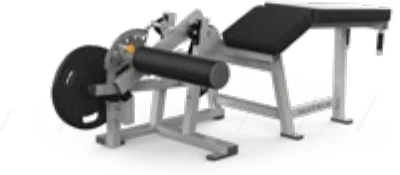
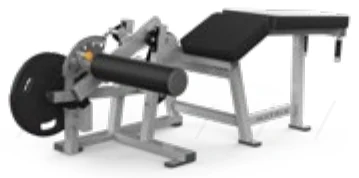
Add files via upload

diff --git a/js/programmes.js b/js/programmes.js
@@ -281,7 +281,7 @@ export const MACHINES_DEFAUT = [
 // motsCles : sert à repérer un appareil déjà créé à la main, pour le mettre à jour au lieu d'en créer un second.
 export const CATALOGUE = [
   { id: "leg-press-45", nom: "Presse à cuisses 45°", modele: "Matrix Magnum MG-PL70",
-    motsCles: ["leg press", "presse", "legpress"],
+    motsCles: ["leg press", "legpress", "presse a cuisses", "presse cuisses", "presse 45"],
     unite: "kg", increment: 2.5, chargeMin: 75, chargeMax: 490, dossier: "leg-press-45", actif: true,
     info: "Le chariot vide pèse déjà 75 kg (charge de départ indiquée par Matrix). Saisissez toujours la charge totale : 75 kg + les disques chargés.",
     consigne: "Dos et bassin collés au dossier. Pieds à plat, largeur du bassin, genoux dans l'axe des pieds. Réglez la butée basse avant de commencer. Déverrouillez le chariot seulement pieds en place, reverrouillez avant de descendre. Ne verrouillez pas les genoux en haut. Chargez et déchargez les disques des deux côtés en même temps." },
@@ -289,7 +289,7 @@ export const CATALOGUE = [
   // Réglages (lbs, pas de 5, 5 à 100) relevés sur la pile de la machine de la salle :
   // la brochure Matrix annonce une pile de 87,1 kg / 192 lbs pour le MG-942, différente de celle de la salle.
   { id: "triceps-pressdown", nom: "Triceps pressdown", modele: "Matrix Magnum MG-942",
-    motsCles: ["triceps", "pressdown", "pushdown", "push down"],
+    motsCles: ["pressdown", "pushdown", "push down", "poulie triceps"],
     unite: "lbs", increment: 5, chargeMin: 5, chargeMax: 100, dossier: "triceps-pressdown", actif: true,
     info: "La pile est graduée en livres (lbs) : placez la goupille sur le chiffre indiqué par l'appli (100 lbs ≈ 45 kg).",
     consigne: "Debout face à la poulie, pieds largeur du bassin, genoux légèrement fléchis, buste un peu penché en avant. Coudes collés au corps : seuls les avant-bras bougent. Écartez la corde en bas du mouvement, remontez lentement sans laisser la pile claquer. Changez la goupille seulement pile au repos." },
@@ -298,7 +298,129 @@ export const CATALOGUE = [
     motsCles: ["leg curl", "legcurl", "ischio", "curl jambe"],
     unite: "kg", increment: 1.25, chargeMin: 10, actif: true, dossier: "leg-curl-couche",
     info: "Machine à disques : le bras vide équivaut déjà à environ 10 kg (21 lb indiqués par Matrix). Saisissez toujours la charge totale : 10 kg + les disques chargés.",
-    consigne: "Allongé sur le ventre, genoux juste au-delà du bord du banc (alignés avec l'axe de rotation), boudin posé au-dessus des talons. Bassin plaqué contre le banc, ne cambrez pas le dos. Montez et descendez lentement, sans à-coup. Chargez et déchargez les disques bras posé en butée basse." }
+    consigne: "Allongé sur le ventre, genoux juste au-delà du bord du banc (alignés avec l'axe de rotation), boudin posé au-dessus des talons. Bassin plaqué contre le banc, ne cambrez pas le dos. Montez et descendez lentement, sans à-coup. Chargez et déchargez les disques bras posé en butée basse." },
+
+  // ---- Ajouts : tous les appareils chargeables des brochures Matrix (résistances de départ : fiches techniques Matrix) ----
+  { id: "vertical-bench-press", nom: "Développé vertical (disques)", modele: "Matrix Magnum MG-PL12",
+    motsCles: ["developpe vertical", "vertical bench", "chest press", "presse pectoraux"],
+    unite: "kg", increment: 2.5, chargeMin: 7.5, dossier: "vertical-bench-press", actif: true,
+    info: "Le bras vide équivaut déjà à 6,8 kg (valeur Matrix). Saisissez toujours la charge totale : 7,5 kg + les disques chargés (additionnez les disques des deux côtés).",
+    consigne: "Réglez le siège pour que les poignées soient à hauteur de poitrine. Dos et tête collés au dossier, pieds au sol. Poussez sans verrouiller les coudes, revenez lentement sans laisser les charges se poser. Chargez les disques des deux côtés." },
+  { id: "supine-bench-press", nom: "Développé couché guidé (disques)", modele: "Matrix Magnum MG-PL13",
+    motsCles: ["supine", "couche guide", "développé couché machine"],
+    unite: "kg", increment: 2.5, chargeMin: 5, dossier: "supine-bench-press", actif: true,
+    info: "Le bras vide équivaut déjà à 4,5 kg (valeur Matrix). Saisissez toujours la charge totale : 5 kg + les disques chargés (additionnez les disques des deux côtés).",
+    consigne: "Allongé, yeux sous les poignées, dos et fessiers en contact avec le banc, pieds au sol. Poussez sans verrouiller les coudes, descendez lentement jusqu'à hauteur de poitrine. Chargez les disques des deux côtés." },
+  { id: "incline-bench-press", nom: "Développé incliné (disques)", modele: "Matrix Magnum MG-PL14",
+    motsCles: ["incline", "incliné", "incline bench"],
+    unite: "kg", increment: 2.5, chargeMin: 5, dossier: "incline-bench-press", actif: true,
+    info: "Le bras vide équivaut déjà à 5,4 kg (valeur Matrix). Saisissez toujours la charge totale : 5 kg + les disques chargés (additionnez les disques des deux côtés).",
+    consigne: "Réglez le siège pour que les poignées soient au niveau du haut de la poitrine. Dos collé au dossier, pieds au sol. Poussez sans verrouiller les coudes, revenez lentement. Chargez les disques des deux côtés." },
+  { id: "vertical-decline-press", nom: "Développé décliné (disques)", modele: "Matrix Magnum MG-PL15",
+    motsCles: ["decline", "décliné"],
+    unite: "kg", increment: 2.5, chargeMin: 7.5, dossier: "vertical-decline-press", actif: true,
+    info: "Le bras vide équivaut déjà à 6,8 kg (valeur Matrix). Saisissez toujours la charge totale : 7,5 kg + les disques chargés (additionnez les disques des deux côtés).",
+    consigne: "Réglez le siège pour que les poignées soient au niveau du bas de la poitrine. Dos collé au dossier, pieds au sol. Poussez vers le bas et l'avant sans verrouiller les coudes, revenez lentement. Chargez les disques des deux côtés." },
+  { id: "shoulder-press-disques", nom: "Développé épaules (disques)", modele: "Matrix Magnum MG-PL23",
+    motsCles: ["developpe epaules", "développé épaules", "shoulder press", "militaire"],
+    unite: "kg", increment: 2.5, chargeMin: 5, dossier: "shoulder-press-disques", actif: true,
+    info: "Le bras vide équivaut déjà à 5,4 kg (valeur Matrix). Saisissez toujours la charge totale : 5 kg + les disques chargés (additionnez les disques des deux côtés).",
+    consigne: "Réglez le siège pour que les poignées partent à hauteur d'épaules. Dos collé au dossier, ne cambrez pas. Poussez sans verrouiller les coudes, redescendez lentement. Chargez les disques des deux côtés." },
+  { id: "lat-pulldown-disques", nom: "Tirage vertical (disques)", modele: "Matrix Magnum MG-PL33",
+    motsCles: ["tirage vertical disques", "lat pulldown disques"],
+    unite: "kg", increment: 2.5, chargeMin: 0, dossier: "lat-pulldown-disques", actif: true,
+    info: "Résistance de départ non communiquée par Matrix : regardez l'étiquette « Starting resistance » sur la machine, puis indiquez-la comme charge minimum. En attendant, saisissez seulement le poids des disques, toujours de la même façon.",
+    consigne: "Réglez le boudin sur les cuisses pour bien les bloquer. Buste droit, légèrement penché en arrière. Tirez les poignées vers le haut de la poitrine en serrant les omoplates, remontez lentement bras presque tendus. Chargez les disques des deux côtés." },
+  { id: "seated-row-disques", nom: "Tirage horizontal assis (disques)", modele: "Matrix Magnum MG-PL34",
+    motsCles: ["tirage horizontal disques", "seated row", "rowing assis"],
+    unite: "kg", increment: 2.5, chargeMin: 10, dossier: "seated-row-disques", actif: true,
+    info: "Le bras vide équivaut déjà à 11,3 kg (valeur Matrix). Saisissez toujours la charge totale : 10 kg + les disques chargés (additionnez les disques des deux côtés).",
+    consigne: "Réglez le siège pour que les poignées soient à hauteur de poitrine, buste contre l'appui. Dos droit, épaules basses. Tirez en serrant les omoplates, coudes près du corps, revenez lentement bras presque tendus. Chargez les disques des deux côtés." },
+  { id: "ab-crunch-bench", nom: "Banc crunch abdos (disques)", modele: "Matrix Magnum MG-PL50",
+    motsCles: ["crunch", "abdo"],
+    unite: "kg", increment: 1.25, chargeMin: 10, dossier: "ab-crunch-bench", actif: true,
+    info: "Le bras vide équivaut déjà à 11,3 kg (valeur Matrix). Saisissez toujours la charge totale : 10 kg + les disques chargés. Charge maximale prévue : 34 kg.",
+    consigne: "Pieds calés sous les rouleaux, mains sur les poignées. Enroulez le buste en rapprochant les côtes du bassin, sans tirer avec les bras ni sur la nuque. Revenez lentement sans reposer la charge." },
+  { id: "smith-magnum", nom: "Smith machine (Magnum)", modele: "Matrix Magnum MG-PL62",
+    motsCles: ["smith"],
+    unite: "kg", increment: 2.5, chargeMin: 10, dossier: "smith-magnum", actif: true,
+    info: "Le bras vide équivaut déjà à 11,3 kg (valeur Matrix). Saisissez toujours la charge totale : 10 kg + les disques chargés (additionnez les disques des deux côtés).",
+    consigne: "Réglez les butées de sécurité juste sous le point le plus bas du mouvement AVANT de commencer. Décrochez la barre par rotation des poignets, raccrochez-la à chaque fin de série. Disques identiques des deux côtés, colliers mis. Ne travaillez jamais sans butées." },
+  { id: "hack-squat", nom: "Hack squat", modele: "Matrix Magnum MG-PL71",
+    motsCles: ["hack"],
+    unite: "kg", increment: 2.5, chargeMin: 47.5, dossier: "hack-squat", actif: true,
+    info: "Le bras vide équivaut déjà à 47,6 kg (valeur Matrix). Saisissez toujours la charge totale : 47,5 kg + les disques chargés.",
+    consigne: "Dos et épaules bien calés contre les appuis, pieds à plat à largeur de bassin, genoux dans l'axe des pieds. Réglez la butée basse, déverrouillez le chariot pieds en place. Descendez contrôlé sans décoller les talons, ne verrouillez pas les genoux en haut. Reverrouillez avant de sortir." },
+  { id: "standing-calf", nom: "Mollets debout (disques)", modele: "Matrix Magnum MG-PL76",
+    motsCles: ["mollet debout", "standing calf", "mollets debout"],
+    unite: "kg", increment: 2.5, chargeMin: 30, dossier: "standing-calf", actif: true,
+    info: "Le bras vide équivaut déjà à 30,4 kg (valeur Matrix). Saisissez toujours la charge totale : 30 kg + les disques chargés.",
+    consigne: "Réglez les épaulières à votre taille. Avant des pieds sur la plateforme, talons dans le vide, genoux tendus mais non verrouillés. Montez sur la pointe des pieds, redescendez lentement en étirant le mollet. Gardez le dos droit." },
+  { id: "seated-calf", nom: "Mollets assis (disques)", modele: "Matrix Magnum MG-PL77",
+    motsCles: ["mollet assis", "seated calf", "mollets assis"],
+    unite: "kg", increment: 2.5, chargeMin: 10, dossier: "seated-calf", actif: true,
+    info: "Le bras vide équivaut déjà à 11,3 kg (valeur Matrix). Saisissez toujours la charge totale : 10 kg + les disques chargés.",
+    consigne: "Réglez les appuis sur le bas des cuisses. Avant des pieds sur la plateforme, talons libres. Débloquez la barre de sécurité, montez sur la pointe des pieds puis redescendez lentement. Rebloquez avant de sortir." },
+  { id: "glute-trainer", nom: "Hip thrust (Glute trainer)", modele: "Matrix Magnum MG-PL78",
+    motsCles: ["glute", "hip thrust", "fessier"],
+    unite: "kg", increment: 2.5, chargeMin: 22.5, dossier: "glute-trainer", actif: true,
+    info: "Le bras vide équivaut déjà à 22,7 kg (valeur Matrix). Saisissez toujours la charge totale : 22,5 kg + les disques chargés.",
+    consigne: "Haut du dos sur l'appui, ceinture du boudin sur les hanches, pieds à plat largeur de bassin. Poussez avec les talons jusqu'à l'alignement épaules-hanches-genoux, sans cambrer le bas du dos. Redescendez lentement." },
+  { id: "squat-lunge", nom: "Squat / fente guidé (disques)", modele: "Matrix Magnum MG-PL79",
+    motsCles: ["squat lunge", "squat / fente", "fente"],
+    unite: "kg", increment: 2.5, chargeMin: 15, dossier: "squat-lunge", actif: true,
+    info: "Le bras vide équivaut déjà à 16,3 kg (valeur Matrix). Saisissez toujours la charge totale : 15 kg + les disques chargés. Charge maximale efficace : 144 kg.",
+    consigne: "Épaules sous les appuis, buste droit, pieds largeur de bassin. Descendez contrôlé, genoux dans l'axe des pieds, talons au sol. Ne verrouillez pas les genoux en haut. Pour la fente, gardez le genou avant au-dessus de la cheville." },
+  { id: "reverse-back-extension", nom: "Extension lombaire inversée (disques)", modele: "Matrix Magnum MG-405",
+    motsCles: ["reverse", "lombaire", "hyperextension"],
+    unite: "kg", increment: 2.5, chargeMin: 7.5, dossier: "reverse-back-extension", actif: true,
+    info: "Le bras vide équivaut déjà à 7 kg (valeur Matrix). Saisissez toujours la charge totale : 7,5 kg + les disques chargés.",
+    consigne: "Buste allongé sur l'appui, hanches au bord, mains sur les poignées. Montez les jambes jusqu'à l'horizontale sans cambrer au-delà, redescendez lentement. Réglez le point de départ selon votre souplesse ; débutez léger." },
+  { id: "lat-pulldown-pile", nom: "Tirage vertical (pile)", modele: "Matrix Magnum MG-921",
+    motsCles: ["tirage vertical", "lat pulldown", "tirage poitrine"],
+    unite: "lbs", increment: 10, chargeMin: 10, dossier: "lat-pulldown-pile", actif: true,
+    info: "Machine à pile : placez la goupille sur la charge indiquée par l'appli. Vérifiez l'unité (lbs ou kg) et le pas inscrits sur la pile, et corrigez-les dans la fiche appareil si besoin.",
+    consigne: "Réglez le boudin pour bloquer les cuisses. Prise un peu plus large que les épaules, buste légèrement en arrière. Tirez la barre devant vers le haut de la poitrine (jamais derrière la nuque), remontez lentement sans laisser la pile claquer." },
+  { id: "low-row-pile", nom: "Tirage horizontal (pile)", modele: "Matrix Magnum MG-926",
+    motsCles: ["tirage horizontal", "low row", "rowing"],
+    unite: "lbs", increment: 10, chargeMin: 10, dossier: "low-row-pile", actif: true,
+    info: "Machine à pile : placez la goupille sur la charge indiquée par l'appli. Vérifiez l'unité (lbs ou kg) et le pas inscrits sur la pile, et corrigez-les dans la fiche appareil si besoin.",
+    consigne: "Pieds calés sur les appuis, genoux légèrement fléchis, dos droit. Tirez la poignée vers le nombril en serrant les omoplates, sans basculer le buste en arrière. Revenez lentement sans arrondir le dos." },
+  { id: "lat-low-row-pile", nom: "Tirage vertical / horizontal (pile)", modele: "Matrix Magnum MG-946",
+    motsCles: ["tirage vertical / horizontal", "lat pulldown / low row"],
+    unite: "lbs", increment: 10, chargeMin: 10, dossier: "lat-low-row-pile", actif: true,
+    info: "Machine à pile : placez la goupille sur la charge indiquée par l'appli. Vérifiez l'unité (lbs ou kg) et le pas inscrits sur la pile, et corrigez-les dans la fiche appareil si besoin.",
+    consigne: "Une seule pile pour deux exercices : faites un test séparé si vous utilisez les deux postes. Tirage vertical : cuisses bloquées, barre devant vers la poitrine. Tirage horizontal : dos droit, poignée vers le nombril. Retour lent sans faire claquer la pile." },
+  { id: "angled-smith", nom: "Smith machine inclinée (Varsity)", modele: "Matrix Varsity VY-M49",
+    motsCles: ["smith incline", "smith inclin", "angled smith"],
+    unite: "kg", increment: 2.5, chargeMin: 10, dossier: "angled-smith", actif: true,
+    info: "Le bras vide équivaut déjà à 11,3 kg (valeur Matrix). Saisissez toujours la charge totale : 10 kg + les disques chargés (additionnez les disques des deux côtés).",
+    consigne: "Réglez les butées de sécurité juste sous le point le plus bas AVANT de commencer. Décrochez et raccrochez la barre par rotation des poignets. Disques identiques des deux côtés, colliers mis. Ne travaillez jamais sans butées." },
+  { id: "smith-g1", nom: "Smith machine (G1)", modele: "Matrix G1-FW161",
+    motsCles: ["smith g1"],
+    unite: "kg", increment: 2.5, chargeMin: 20, dossier: "smith-g1", actif: true,
+    info: "Le bras vide équivaut déjà à 20 kg (valeur Matrix). Saisissez toujours la charge totale : 20 kg + les disques chargés (additionnez les disques des deux côtés).",
+    consigne: "Réglez les butées de sécurité juste sous le point le plus bas AVANT de commencer. Décrochez et raccrochez la barre par rotation des poignets. Disques identiques des deux côtés, colliers mis. Ne travaillez jamais sans butées." },
+  { id: "perfect-squat", nom: "Perfect squat (Varsity)", modele: "Matrix Varsity VY-400",
+    motsCles: ["perfect squat"],
+    unite: "kg", increment: 2.5, chargeMin: 0, dossier: "perfect-squat", actif: true,
+    info: "Résistance de départ non communiquée par Matrix : regardez l'étiquette « Starting resistance » sur la machine, puis indiquez-la comme charge minimum. En attendant, saisissez seulement le poids des disques, toujours de la même façon.",
+    consigne: "Épaules sous les appuis, dos contre le dossier, pieds à plat sur la plateforme, largeur de bassin. Descendez contrôlé, genoux dans l'axe des pieds, talons au sol. Ne verrouillez pas les genoux en haut. Réglez la hauteur de départ avant de charger." },
+  { id: "leg-extension", nom: "Leg extension (Varsity)", modele: "Matrix Varsity VY-401",
+    motsCles: ["leg extension", "extension jambe", "quadriceps"],
+    unite: "kg", increment: 1.25, chargeMin: 0, dossier: "leg-extension", actif: true,
+    info: "Résistance de départ non communiquée par Matrix : regardez l'étiquette « Starting resistance » sur la machine, puis indiquez-la comme charge minimum. En attendant, saisissez seulement le poids des disques, toujours de la même façon.",
+    consigne: "Réglez le dossier pour aligner le genou avec l'axe de rotation, boudin posé sur le bas du tibia. Dos collé au dossier, mains sur les poignées. Tendez les jambes sans verrouiller les genoux, redescendez lentement." },
+  { id: "biceps-curl-pupitre", nom: "Curl biceps au pupitre (Varsity)", modele: "Matrix Varsity VY-431",
+    motsCles: ["biceps", "curl biceps", "pupitre"],
+    unite: "kg", increment: 1.25, chargeMin: 0, dossier: "biceps-curl-pupitre", actif: true,
+    info: "Résistance de départ non communiquée par Matrix : regardez l'étiquette « Starting resistance » sur la machine, puis indiquez-la comme charge minimum. En attendant, saisissez seulement le poids des disques, toujours de la même façon.",
+    consigne: "Réglez le siège pour que le dos des bras repose entièrement sur le pupitre, coudes alignés avec l'axe de rotation. Fléchissez les bras sans décoller les coudes, redescendez lentement sans verrouiller en bas." },
+  { id: "triceps-extension", nom: "Extension triceps (Varsity)", modele: "Matrix Varsity VY-432",
+    motsCles: ["extension triceps", "triceps extension"],
+    unite: "kg", increment: 1.25, chargeMin: 0, dossier: "triceps-extension", actif: true,
+    info: "Résistance de départ non communiquée par Matrix : regardez l'étiquette « Starting resistance » sur la machine, puis indiquez-la comme charge minimum. En attendant, saisissez seulement le poids des disques, toujours de la même façon.",
+    consigne: "Réglez le siège pour aligner les coudes avec l'axe de rotation, bras posés sur l'appui. Tendez les bras sans verrouiller les coudes, revenez lentement. Gardez le dos contre le dossier." }
 ];
 
 export function genererCode(longueur = 6) {

diff --git a/js/prof.js b/js/prof.js
@@ -247,6 +247,64 @@ async function ficheEtudiant(code) {
 }
 
 // ---------------- Appareils ----------------
+// ---------- Catalogue d'appareils ----------
+// Retrouve l'appareil de la salle qui correspond à une fiche du catalogue (même id, ou nom contenant un mot-clé)
+const normTxt = s => String(s).toLowerCase().normalize("NFD").replace(/[\u0300-\u036f]/g, "");
+function correspondance(k, liste, dejaPris = new Set()) {
+  return liste.find(m => m.id === k.id && !dejaPris.has(m.id))
+    || liste.find(m => !dejaPris.has(m.id) && !CATALOGUE.some(x => x.id === m.id) && k.motsCles.some(mot => normTxt(m.nom).includes(normTxt(mot))));
+}
+
+function ouvrirCatalogue(c, lire) {
+  machines = lire();
+  const pris = new Set();
+  const lignes = CATALOGUE.map(k => {
+    const m = correspondance(k, machines, pris);
+    if (m) pris.add(m.id);
+    return { k, m };
+  });
+  modal.innerHTML = `
+    <div class="modal-fond"><div class="modal" style="max-width:720px">
+      <div class="entete-carte"><h2>📚 Catalogue d'appareils</h2><button id="fermer">✕</button></div>
+      <p class="small muted">Cochez les appareils de votre salle. Chaque fiche contient la photo, l'unité, le pas, la charge de départ et une consigne de sécurité.
+      Un appareil déjà présent est <b>mis à jour</b> (les tests des étudiants sont conservés). Vous pourrez supprimer ou corriger un appareil ensuite dans le tableau.</p>
+      <div class="ligne" style="margin:8px 0"><button id="cat-tout">Tout cocher</button><button id="cat-rien">Tout décocher</button></div>
+      <div class="catalogue-liste">
+        ${lignes.map(({ k, m }, i) => `<label class="catalogue-item">
+          <input type="checkbox" data-cat="${i}">
+          <img src="img/appareils/${k.dossier}/appareil.webp" alt="" loading="lazy" onerror="this.style.visibility='hidden'">
+          <span><b>${esc(k.nom)}</b><br><span class="small muted">${esc(k.modele)} · ${k.unite === "lbs" ? "pile en lbs" : k.chargeMin ? `départ ${fmtKg(k.chargeMin)}` : "départ à vérifier"}</span>
+          ${m ? `<br><span class="small" style="color:var(--accent)">↻ mettra à jour « ${esc(m.nom)} »</span>` : ""}</span>
+        </label>`).join("")}
+      </div>
+      <div class="ligne" style="justify-content:flex-end;margin-top:14px">
+        <button id="cat-annuler">Annuler</button><button class="primaire" id="cat-ok">Ajouter la sélection</button>
+      </div>
+    </div></div>`;
+  const fermer = () => { modal.innerHTML = ""; };
+  modal.querySelector("#fermer").onclick = fermer;
+  modal.querySelector("#cat-annuler").onclick = fermer;
+  const cases = [...modal.querySelectorAll("[data-cat]")];
+  const majBouton = () => { const n = cases.filter(x => x.checked).length; modal.querySelector("#cat-ok").textContent = n ? `Ajouter la sélection (${n})` : "Ajouter la sélection"; };
+  cases.forEach(x => x.onchange = majBouton);
+  modal.querySelector("#cat-tout").onclick = () => { cases.forEach(x => x.checked = true); majBouton(); };
+  modal.querySelector("#cat-rien").onclick = () => { cases.forEach(x => x.checked = false); majBouton(); };
+  modal.querySelector("#cat-ok").onclick = async () => {
+    const choix = cases.filter(x => x.checked).map(x => lignes[Number(x.dataset.cat)]);
+    if (!choix.length) return toast("Cochez au moins un appareil.");
+    let ajout = 0, maj = 0;
+    for (const { k, m } of choix) {
+      const { motsCles, modele, ...fiche } = k;
+      if (m) { Object.assign(m, { ...fiche, id: m.id }); maj++; }
+      else { machines.push({ ...fiche }); ajout++; }
+    }
+    await DB.saveMachines(machines);
+    fermer();
+    toast(`${ajout} appareil(s) ajouté(s), ${maj} mis à jour ✓`);
+    vueAppareils(c);
+  };
+}
+
 function vueAppareils(c) {
   c.innerHTML = `
     <div class="carte">
@@ -274,8 +332,7 @@ function vueAppareils(c) {
     <div class="carte">
       <div class="entete-carte"><h3>Appareils de la salle</h3>
         <div class="ligne">
-          <select id="sel-catalogue" style="width:auto"><option value="">📚 Ajouter depuis le catalogue…</option>
-            ${CATALOGUE.map(k => `<option value="${k.id}">${esc(k.nom)} (${esc(k.modele)})</option>`).join("")}</select>
+          <button id="btn-catalogue">📚 Catalogue (${CATALOGUE.length} appareils)</button>
           <button id="btn-ajout">+ Ajouter un appareil</button>
         </div></div>
       <p class="small muted"><b>Unité</b> : « lbs » pour une pile de plaques graduée en livres (l'étudiant saisit le chiffre gravé sur la plaque), « kg » pour une barre ou des disques.
@@ -346,26 +403,7 @@ function vueAppareils(c) {
     definirPhotos({ ...Object.fromEntries(machines.map(x => [x.id, photosDe(x.id)])), [id]: p });
     toast("Photo retirée"); vueAppareils(c);
   });
-  // Catalogue : ajoute l'appareil, ou met à jour celui qui existe déjà (on garde son identifiant → les tests sont conservés)
-  c.querySelector("#sel-catalogue").onchange = async ev => {
-    const k = CATALOGUE.find(x => x.id === ev.target.value);
-    ev.target.value = "";
-    if (!k) return;
-    machines = lire();
-    const { motsCles, modele, ...fiche } = k;
-    const norm = s => String(s).toLowerCase().normalize("NFD").replace(/[\u0300-\u036f]/g, "");
-    const existant = machines.find(m => m.id === k.id)
-      || machines.find(m => motsCles.some(mot => norm(m.nom).includes(norm(mot))));
-    if (existant) {
-      if (!(await demander(`Mettre à jour « ${existant.nom} » avec la fiche ${k.modele} (photo, charges, consigne) ? Les tests des étudiants sont conservés.`, "Mettre à jour"))) return;
-      Object.assign(existant, { ...fiche, id: existant.id });
-    } else {
-      machines.push({ ...fiche });
-    }
-    await DB.saveMachines(machines);
-    toast(`${k.nom} : fiche enregistrée ✓`);
-    vueAppareils(c);
-  };
+  c.querySelector("#btn-catalogue").onclick = () => ouvrirCatalogue(c, lire);
   c.querySelector("#btn-ajout").onclick = () => {
     machines = lire();
     machines.push({ id: "m" + Date.now().toString(36), nom: "Nouvel appareil", unite: "lbs", increment: 5, chargeMin: 5, chargeMax: 100, dossier: "", consigne: "", actif: true });

diff --git a/css/style.css b/css/style.css
@@ -213,3 +213,10 @@ tbody tr:hover { background: var(--surface-2); }
 .badge-catalogue { display: none; color: var(--accent); }
 .photo-case.du-catalogue .badge-catalogue { display: inline; }
 .photo-case.du-catalogue .lien.danger { display: none; }
+
+/* Catalogue d'appareils */
+.catalogue-liste { display: grid; grid-template-columns: repeat(auto-fill, minmax(300px, 1fr)); gap: 8px; max-height: 60vh; overflow: auto; }
+.catalogue-item { display: flex; align-items: center; gap: 10px; border: 1px solid var(--line); border-radius: 10px; padding: 6px 10px; margin: 0; cursor: pointer; font-weight: normal; }
+.catalogue-item:has(input:checked) { border-color: var(--accent); }
+.catalogue-item input { width: auto; flex: none; }
+.catalogue-item img { width: 64px; height: 64px; object-fit: contain; background: #fff; border-radius: 6px; flex: none; }

diff --git a/README.md b/README.md
@@ -86,10 +86,11 @@ Ce que garantissent ces règles :
    **Photos** : à la salle, ouvrez `prof.html` sur votre téléphone, onglet *Appareils*, et touchez 📷 sous chaque appareil (photo de l'appareil, de la consigne, des charges).
    La photo est compressée (≈ 100 Ko) et enregistrée tout de suite dans Firestore : rien à déposer sur GitHub, aucune règle à republier.
    **Priorité** : la photo du catalogue (marquée 📚) s'affiche en priorité ; votre photo de téléphone n'est utilisée que si le catalogue n'en a pas.
-   **Catalogue** : le menu « 📚 Ajouter depuis le catalogue » ajoute un appareil déjà rempli (photo, unité, charges, consigne).
-   Si un appareil du même type existe déjà (ex. « Leg press » créé à la main), il est mis à jour sans perdre les tests des étudiants.
-   Disponible : Presse à cuisses 45° (Matrix Magnum MG-PL70, chariot vide = 75 kg), Triceps pressdown (Matrix Magnum MG-942, pile en lbs),
-   Leg curl couché (Matrix Varsity VY-402, bras vide ≈ 10 kg). Le catalogue se complète dans `CATALOGUE` de `js/programmes.js`.
+   **Catalogue** : le bouton « 📚 Catalogue » ouvre la liste des 27 appareils chargeables des brochures Matrix (Magnum, Varsity, G1),
+   avec photo, unité, pas, charge de départ (fiches techniques Matrix) et consigne de sécurité. Cochez ceux de votre salle (ou « Tout cocher »),
+   puis « Ajouter la sélection ». Un appareil du même type déjà créé (ex. « Leg curl ») est mis à jour sans perdre les tests des étudiants.
+   Les fiches marquées « départ à vérifier » n'ont pas de résistance de départ publiée : lisez l'étiquette sur la machine.
+   Le catalogue se complète dans `CATALOGUE` de `js/programmes.js` ; les photos sont dans `img/appareils/<id>/appareil.webp`. Le catalogue se complète dans `CATALOGUE` de `js/programmes.js`.
 2. **Étudiants** : ajoutez-les un par un, ou collez une liste `Nom;Prénom;Groupe` copiée depuis un tableur.
 3. **QR codes** : filtrez par groupe, cliquez sur *Imprimer les cartes* et distribuez-les.
 4. L'étudiant scanne sa carte, fait son test de charge (3 à 10 répétitions) sur chaque appareil, choisit un objectif, puis suit ses séances et remplit son carnet.
